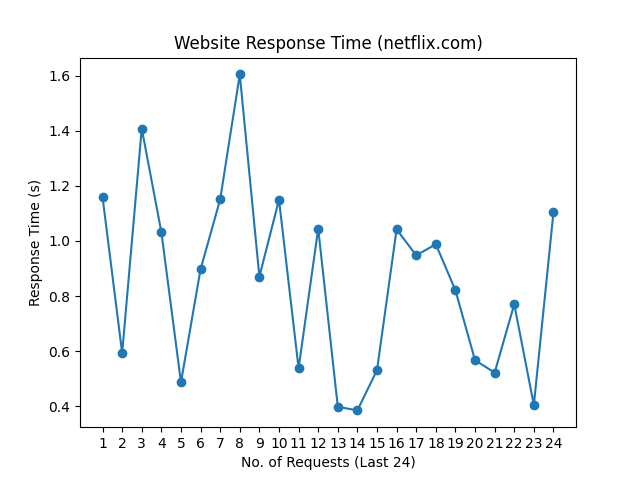
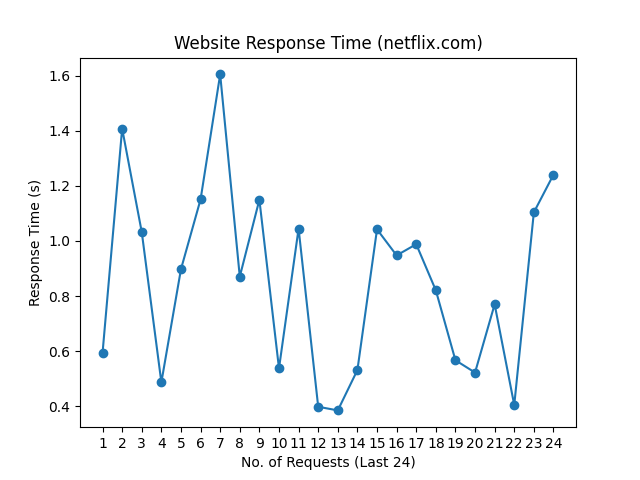
update README.md, history and graph

Changed region(s): [[0.1562, 0.125, 0.875, 0.875]]

diff --git a/README.md b/README.md
@@ -1,10 +1,10 @@
 # Web Monitoring
 
-Last Checked: 26/11/2023 09:06
+Last Checked: 27/11/2023 09:03
 
 | Website | Response Time (s) | Status | Avg Uptime (%) |
 |---------|-------------------|--------|----------------|
 | www.thiswebsiteisdown.net | 0 <br> <img src="graph/thiswebsiteisdown.net.png" alt="Graph" width="200" height="200">  | ❌ Down | 0.00 |
-| www.netflix.com | 1.103590 <br> <img src="graph/netflix.com.png" alt="Graph" width="200" height="200">  | ✅ Up | 100.00 |
-| www.google.com | 0.080235 <br> <img src="graph/google.com.png" alt="Graph" width="200" height="200">  | ✅ Up | 100.00 |
-| www.facebook.com | 0.240824 <br> <img src="graph/facebook.com.png" alt="Graph" width="200" height="200">  | ✅ Up | 100.00 |
+| www.netflix.com | 1.240282 <br> <img src="graph/netflix.com.png" alt="Graph" width="200" height="200">  | ✅ Up | 100.00 |
+| www.google.com | 0.080626 <br> <img src="graph/google.com.png" alt="Graph" width="200" height="200">  | ✅ Up | 100.00 |
+| www.facebook.com | 0.275261 <br> <img src="graph/facebook.com.png" alt="Graph" width="200" height="200">  | ✅ Up | 100.00 |
